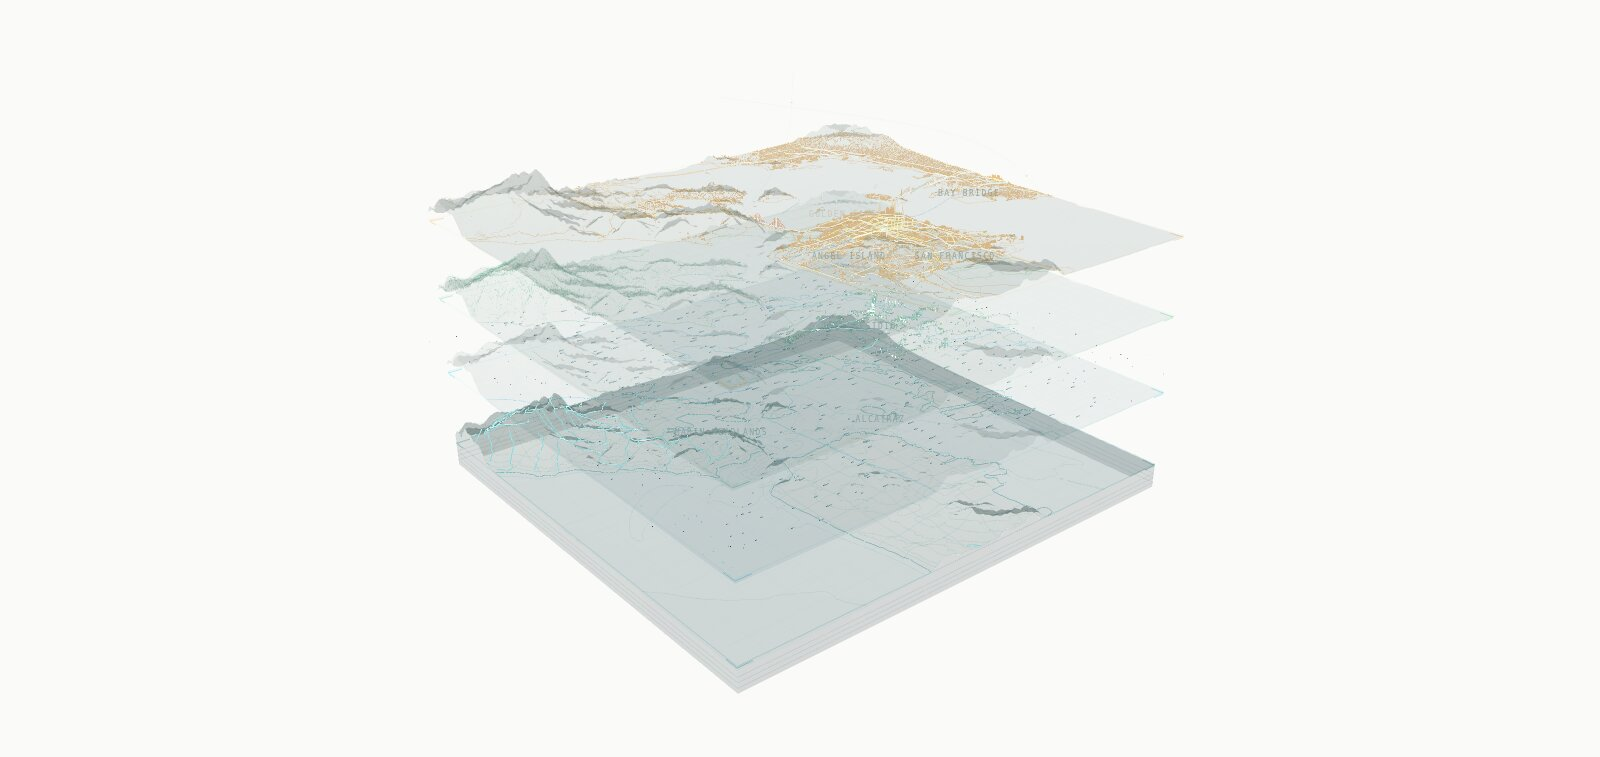
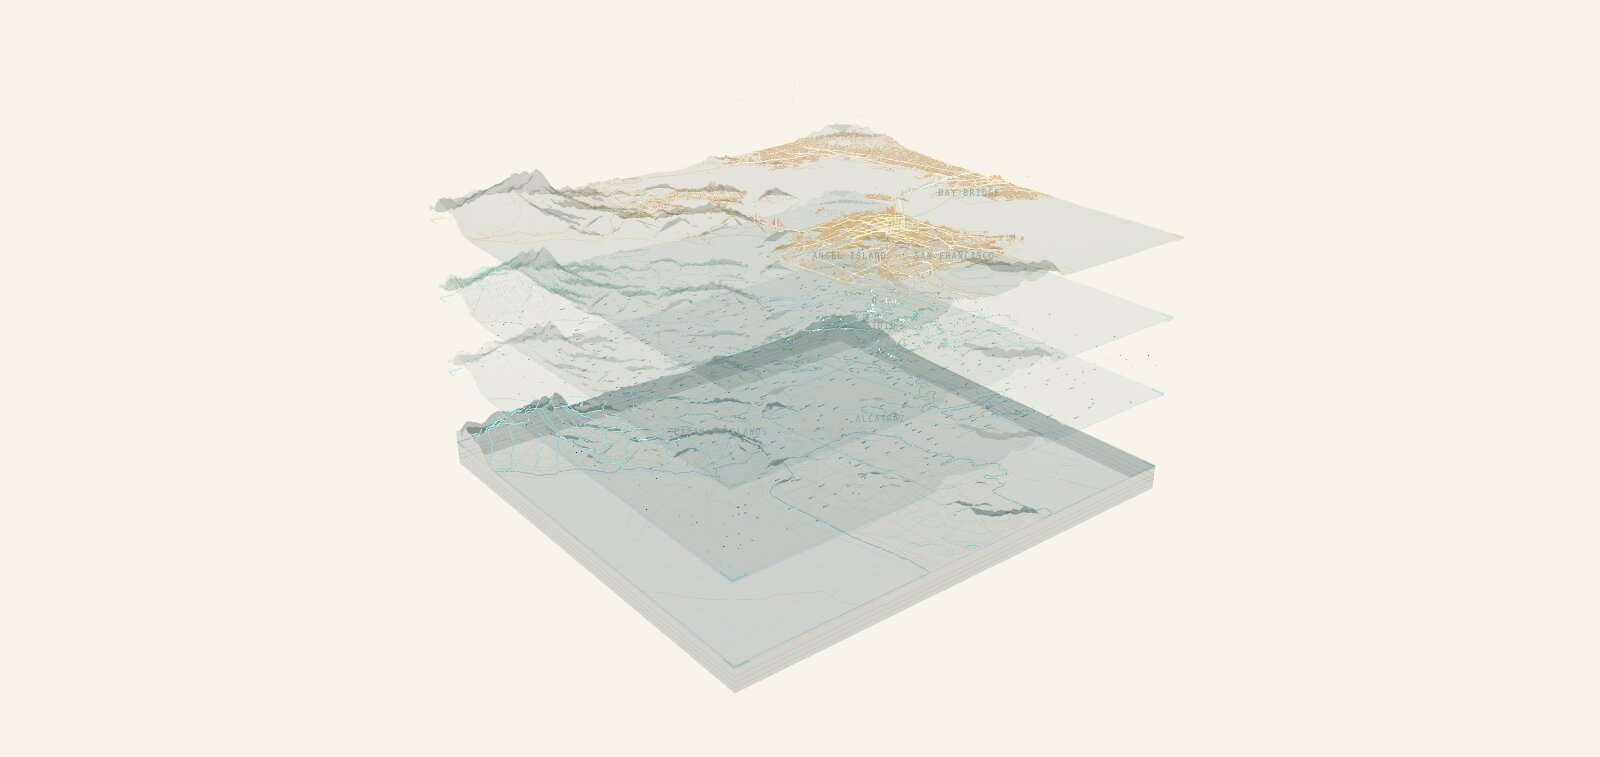
Cream light palette; one-liners get colour-coded domain chips and tags, no byline
Claude-Session: https://claude.ai/code/session_01QvbEMPfgTgBCEh7BrFsFv1

diff --git a/packages/site/src/lib/Line.svelte b/packages/site/src/lib/Line.svelte
@@ -1,10 +1,12 @@
 <script>
-  // One-line wiki link: ‘title’, when [kind][tag][status]. No byline: the wiki does not credit its own editors on the front page.
+  // One-line wiki link: ‘title’, when, then colour-coded chips: kind, domains in their domain colour,
+  // the entry's own tags in a soft wash, and status. Lines may wrap; the chips are the point.
   let { item } = $props()
 </script>
 <li class="py-1.5 border-t border-line leading-snug">
-  <a href={item.url} class="text-ink hover:text-accent">‘{item.label}’</a>
-  <span class="text-muted">{#if item.ago}, {item.ago}{/if}</span>
-  {#each [...(item.kinds || []), ...(item.tags || [])] as t} <span class="text-xs text-muted border border-line px-1">{t}</span>{/each}
+  <a href={item.url} class="text-ink hover:text-accent">‘{item.label}’</a>{#if item.ago}<span class="text-muted">, {item.ago}</span>{/if}
+  {#each item.kinds || [] as k} <span class="inline-block whitespace-nowrap text-xs text-muted border border-line px-1">{k}</span>{/each}
+  {#each item.chips || [] as c} <a href={c.url} class="inline-block whitespace-nowrap text-xs text-ink px-1.5 rounded-sm" style="background:{c.colour}55">{c.label}</a>{/each}
+  {#each item.tags || [] as t} <span class="inline-block whitespace-nowrap text-xs text-muted bg-wash px-1.5 rounded-sm">{t}</span>{/each}
   {#if item.status !== 'public'} <span class="text-xs text-muted border border-line px-1">{item.status}</span>{/if}
 </li>

diff --git a/packages/site/src/app.css b/packages/site/src/app.css
@@ -1,7 +1,7 @@
 @import "tailwindcss";
 
-/* Page palette from the survey (light). Dark values are Claude's, derived from the light palette; not designed by Anselm. */
-:root { --ink: #17333b; --muted: #45616a; --paper: #fafbf9; --line: #cbd8d9; --accent: #256768; --wash: #eef4f4; --focus: #b66c20; }
+/* Page palette from the survey (light), with the paper changed to an off-white cream on Anselm's say (2026-10-17) so the Bay Layers scene and the page share one colour. Dark values are Claude's, derived from the light palette; not designed by Anselm. */
+:root { --ink: #17333b; --muted: #45616a; --paper: #f8f4ec; --line: #d8d1c3; --accent: #256768; --wash: #efe9dc; --focus: #b66c20; }
 @media (prefers-color-scheme: dark) {
   :root { --ink: #e4edec; --muted: #9fb4b6; --paper: #0f1b1e; --line: #27393d; --accent: #7cc3c0; --wash: #15262a; --focus: #e2a25f; }
 }

diff --git a/packages/site/src/routes/[...path]/+page.server.js b/packages/site/src/routes/[...path]/+page.server.js
@@ -26,7 +26,7 @@ export function load({ params }) {
   const base = { view, id, label: e.about.label, description: e.about.description || '', content: html(e.content), status: e.provenance?.status || 'draft', tags: e.about.tags || [] }
   const domains = domainCards()
   const chips = (e) => (e.domains || []).map((d) => domains.find((x) => x.short === d)).filter(Boolean)
-  const line = (e) => ({ ...card(e), author: e.provenance?.author || '', ago: ago(e.provenance?.updated || e.provenance?.created) })
+  const line = (e) => ({ ...card(e), chips: chips(e), ago: ago(e.provenance?.updated || e.provenance?.created) })
 
   if (view === 'home') {
     // The figure is an entry of its own; the home only borrows its still and links back to it.

diff --git a/packages/site/src/lib/views/Home.svelte b/packages/site/src/lib/views/Home.svelte
@@ -5,7 +5,7 @@
   // The live scene is a 7 MB WebGL download, so the prerendered page carries only a still.
   // After load the live, orbitable scene replaces it, drawn on the page's own colour for the
   // current theme, unless the reader has asked for reduced motion.
-  const bg = { light: 'fafbf9', dark: '0f1b1e' }
+  const bg = { light: 'f8f4ec', dark: '0f1b1e' }  // must match --paper in app.css
   let src = $state(null)
   onMount(() => {
     if (!data.figure || matchMedia('(prefers-reduced-motion: reduce)').matches) return

diff --git a/devlog/20261015-do-over-plan.md b/devlog/20261015-do-over-plan.md
@@ -291,3 +291,13 @@ pair of renders on those two colours chosen by a `picture` element; the
 credit line names only the data sources; the Bay Layers entry has no
 author field. On paper the scene reads as a translucent model, which is
 what blending costs; dark is the scene's native look.
+
+## 2026-10-17, late night: wiki feel
+
+Anselm: names off the front-page links ("I wanted a wiki feel"); tags
+back, colour coded; an off-white cream for light mode. Done: the one-line
+entries show title, age, kind, domain chips in their domain colour, the
+entry's own tags in a soft wash, and status; no byline anywhere on the
+front page. Light paper is now cream (#f8f4ec, wash #efe9dc, line
+#d8d1c3); the Bay Layers scene takes the same colour, so it blends. The
+survey's original paper was #fafbf9.
